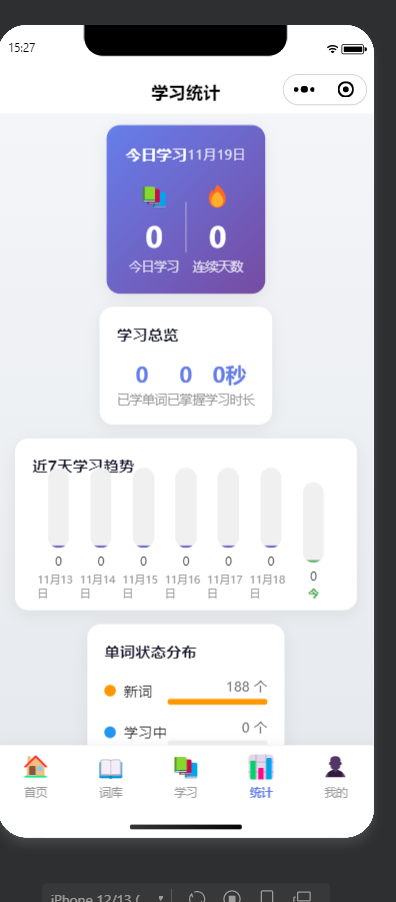
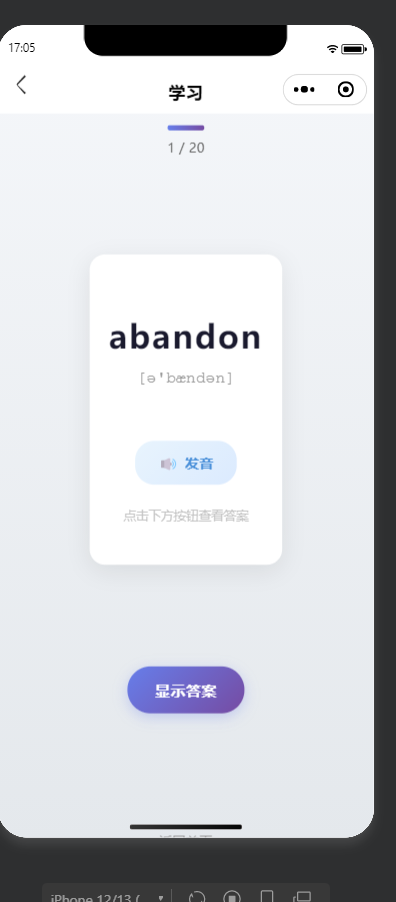
小程序：timeout 是基础库 3.16.1 的问题，固定到 3.15.0
- 同一份代码在 3.16.1 下每次编译都会在启动后 5-15 秒报一次 Error: timeout，
  栈全在 WAServiceMainContext、没有业务代码；切到 3.15.0 后等 20 秒不复现
- project.private.config.json 的 libVersion 固定为 3.15.0
- 更正 README：上一版把 timeout 误判成「测试号导致」，实际与 appid 无关
- 实测：真实 appid + 3.15.0 -> 控制台 0 错误 3 警告，首页与学习页功能正常

diff --git a/projects/06-word-memo-miniprogram/README.md b/projects/06-word-memo-miniprogram/README.md
@@ -69,9 +69,10 @@ const REVIEW_INTERVALS = [1, 2, 4, 7, 15, 30, 60];   // 天
 
 **环境问题（不是代码）**
 
-- `SystemError: appid missing`（41002）和 `timeout`：底层 SDK 的 `webapi_getwxaaacyncsecinfo` 要拿账号安全信息，`touristappid` 没有 appid 所以必然失败。把 `project.config.json` 的 appid 换成真实的之后重新编译，**这两个错误消失，控制台 0 错误**。
+- `SystemError: appid missing`（41002）：底层 SDK 的 `webapi_getwxaaacyncsecinfo` 要拿账号安全信息，`touristappid` 没有 appid 所以必然失败。换成真实 appid 即消失。
+- `Error: timeout`：**基础库 3.16.1 的问题，与代码无关**。同一份代码在 3.16.1 下每次编译都会在启动后 5–15 秒内报一次，栈全在 `WAServiceMainContext` 里、没有业务代码；把调试基础库切成 **3.15.0** 后等 20 秒也不再出现，页面功能一切正常。社区里 3.15.1 / 3.15.2 也有同类报告。仓库的 `project.private.config.json` 已经把 `libVersion` 固定成 3.15.0，避免导入后又踩到。
 
-所以仓库里保留的是原开发的 appid，导入时替换成你自己的即可；如果用「测试号」打开，会看到这两条报错，属于已知限制。
+所以仓库里保留的是原开发的 appid，导入时替换成你自己的即可。如果自己把基础库切回 3.16.x，那条 `timeout` 会回来——它不是这个项目的代码引起的。
 
 另外有一份不依赖开发者工具的静态校验，可以在 CI 或没有 IDE 的机器上跑：
 
@@ -107,4 +108,4 @@ node tools/check-miniprogram.js .
 
 - 登录是本地模拟的：头像用 `<button open-type="chooseAvatar">` 拿到的临时文件，昵称用输入框，不接真实账号体系。
 - 发音直接拼有道词典的 TTS 地址（`https://dict.youdao.com/dictvoice?audio=<word>`），**依赖第三方服务**，且真机需要在「downloadFile 合法域名」里加 `dict.youdao.com`。播放失败时 `onError` 会降级为震动 + Toast 显示单词，不会卡住流程。
-- 用「测试号」打开会看到 `appid missing` 与 `timeout` 两条报错，换成真实 appid 即消失（见上节）。
+- 用「测试号」打开会看到 `appid missing`；调试基础库若留在 3.16.x 还会有一条 `timeout`。两者都与代码无关，换真实 appid + 3.15.0 基础库即可（见上节）。

diff --git a/VERIFY.md b/VERIFY.md
@@ -1,4 +1,4 @@
-# 验证记录
+# 验证记录
 
 不是「在我机器上能跑」，而是每一项都复制到 `%TEMP%\pf-verify` 这类干净目录、按 README 的命令从零执行，贴的是实际退出码与产物。
 
@@ -16,7 +16,7 @@
 | 05 后端测试 | `mvnw -s settings.xml test` | exit 0，10 个测试类全部通过；日志里能看到 OSS 不可用时降级到本地存储的 fallback 正常触发 |
 | 05 安全回归 | `python scripts/check-authz.py` | 18 项断言全通过：8 条越权用例返回 403、5 条合法请求返回 200、认证 3 条 + CORS 2 条 |
 | 05 前端回归 | puppeteer 走 11 个页面（学生端 5 + 企业端 4 + 管理端 2） | 全部正常渲染，0 个 `/api` 请求失败、0 个 JS 异常 |
-| 06 小程序 | 开发者工具打开项目 → 登录 / 首页 / 学习 / 统计 | 4 个页面渲染正常，跳转与进度条工作；修掉废弃 API 后控制台 **0 错误**（真实 appid 下），见 `projects/06-word-memo-miniprogram/docs/` |
+| 06 小程序 | 开发者工具打开项目 → 登录 / 首页 / 学习 / 统计 | 4 个页面渲染正常，跳转与进度条工作；修掉废弃 API + 基础库固定 3.15.0 后控制台 **0 错误**，见 `projects/06-word-memo-miniprogram/docs/` |
 | 06 静态校验 | `node tools/check-miniprogram.js .` | 49 项通过、0 失败（页面完整性 / JSON / JS 语法 / WXML 配对 / 188 条词库 / 记忆算法 17 项断言） |
 | 07 Java Swing | `javac -encoding UTF-8 -d build src/*.java` → `java -cp build Shot docs` | 编译 exit 0，10 个 class；窗口渲染出登录页与主界面，6 条学生数据正确显示 |
 | 08 网页 | 用 Chrome 打开 `index.html` 截图 | 3 张截图，无失败请求；26 张照片引用全部命中磁盘 |
